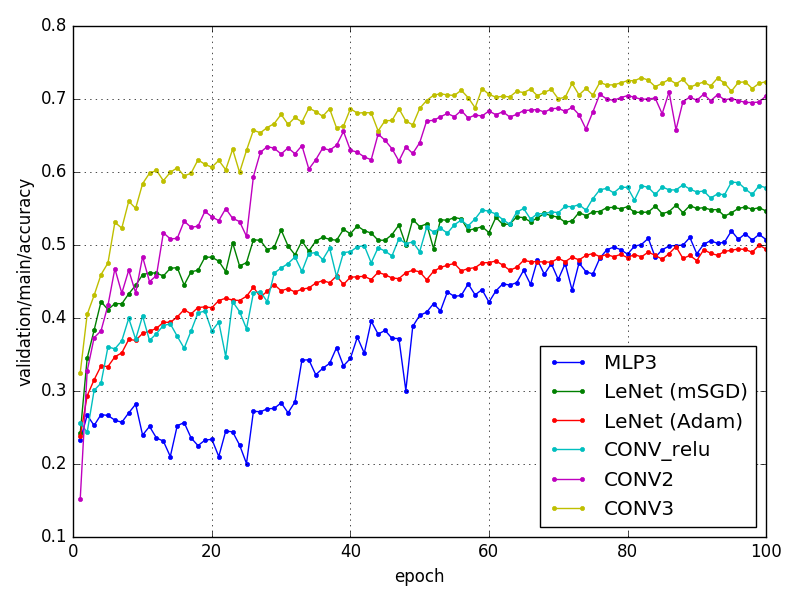
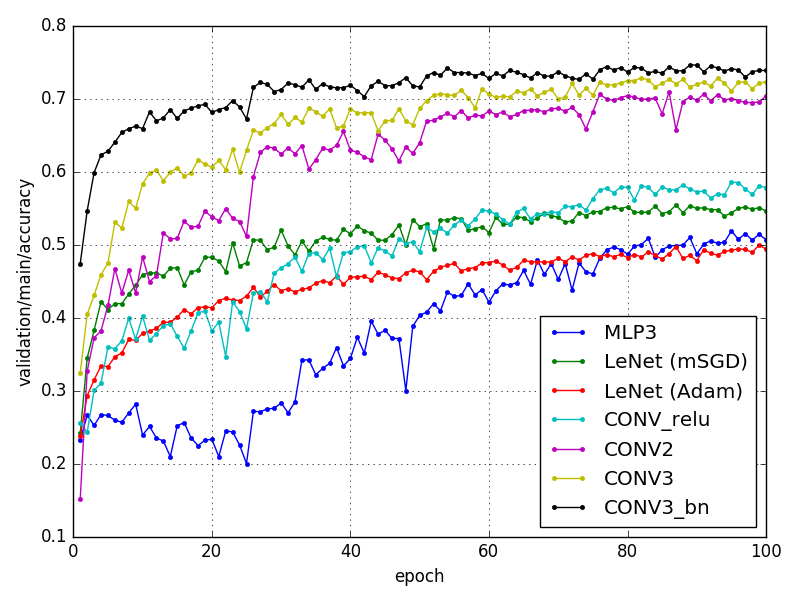
Add CONV3_bn

diff --git a/net.py b/net.py
@@ -162,3 +162,53 @@ class CONV3(chainer.Chain):
         y = self.fc3(h)
 
         return y
+
+
+class CONV3_bn(chainer.Chain):
+    def __init__(self, class_labels):
+        super(CONV3_bn, self).__init__(
+            # TODO: Use Block class
+            conv1=L.Convolution2D(None, 6, ksize=3, pad=1),
+            conv2=L.Convolution2D(None, 16, ksize=3, pad=1),
+            conv3=L.Convolution2D(None, 16, ksize=3, pad=1),
+            conv4=L.Convolution2D(None, 16, ksize=3, pad=1),
+            conv5=L.Convolution2D(None, 16, ksize=3, pad=1),
+            conv6=L.Convolution2D(None, 16, ksize=3, pad=1),
+
+            bn1=L.BatchNormalization(6),
+            bn2=L.BatchNormalization(16),
+            bn3=L.BatchNormalization(16),
+            bn4=L.BatchNormalization(16),
+            bn5=L.BatchNormalization(16),
+            bn6=L.BatchNormalization(16),
+
+            fc1=L.Linear(None, 120),
+            fc2=L.Linear(None, 84),
+            fc3=L.Linear(None, class_labels)
+        )
+        self.train = True
+
+    def __call__(self, x):
+        # print(x.shape)
+
+        # conv block 1
+        h = F.relu(self.bn1(self.conv1(x), test=not self.train))
+        h = F.relu(self.bn2(self.conv2(h), test=not self.train))
+        h = F.max_pooling_2d(h, ksize=2)
+
+        # conv block 2
+        h = F.relu(self.bn3(self.conv3(h), test=not self.train))
+        h = F.relu(self.bn4(self.conv4(h), test=not self.train))
+        h = F.max_pooling_2d(h, ksize=2)
+
+        # conv block 3
+        h = F.relu(self.bn5(self.conv5(h), test=not self.train))
+        h = F.relu(self.bn6(self.conv6(h), test=not self.train))
+        h = F.max_pooling_2d(h, ksize=2)
+        h = F.dropout(h, ratio=0.5, train=self.train)
+
+        h = F.relu(self.fc1(h))
+        h = F.relu(self.fc2(h))
+        y = self.fc3(h)
+
+        return y

diff --git a/train_cifar10.py b/train_cifar10.py
@@ -31,7 +31,7 @@ def main():
     parser.add_argument('--resume', '-r', default='',
                         help='Resume the training from snapshot')
     parser.add_argument('--model', '-m',
-                        choices=('MLP3', 'LeNet', 'CONV_relu', 'CONV2', 'CONV3'),
+                        choices=('MLP3', 'LeNet', 'CONV_relu', 'CONV2', 'CONV3', 'CONV3_bn'),
                         default='LeNet', help='model type')
     args = parser.parse_args()
 
@@ -56,6 +56,8 @@ def main():
         model = CONV2(class_labels)
     elif args.model == 'CONV3':
         model = CONV3(class_labels)
+    elif args.model == 'CONV3_bn':
+        model = CONV3_bn(class_labels)
 
     model = L.Classifier(model)
     if args.gpu >= 0:

diff --git a/plotter.py b/plotter.py
@@ -35,7 +35,8 @@ if __name__ == '__main__':
                 ('LeNet (Adam)', 'result_LeNet_Adam/log'),
                 ('CONV_relu', 'result_CONV_relu/log'),
                 ('CONV2', 'result_CONV2/log'),
-                ('CONV3', 'result_CONV3/log')]
+                ('CONV3', 'result_CONV3/log'),
+                ('CONV3_bn', 'result_CONV3_bn/log')]
 
     plot_result(logfiles, 'main/loss', 'cifar10_loss.png')
     plot_result(logfiles, 'main/accuracy', 'cifar10_acc.png')
